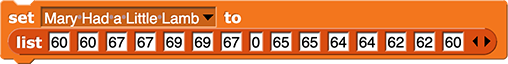
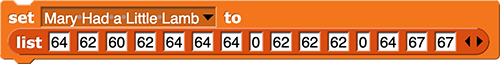
2.1 - tidying up pages 5 and 6

diff --git a/middle-school/student-pages/U2/L1/06-storing-songs.html b/middle-school/student-pages/U2/L1/06-storing-songs.html
@@ -19,13 +19,12 @@
         </div>
 		<p>
 			For example, you can use a global variable to store the pitches of a song.<br />
-			<div class="comment">This image needs to be updated because this song is Twinkle Twinkle. ;) --MF, 2/21/22</div>
-			<img class="indent" src="/bjc-r/middle-school/img/U2/lab01/set-mary-lamb.png" alt="set ('Mary Had a Little Lamb') to (list (60) (60) (67) (67) (69) (69) (67) (0) (65) (65) (64) (64) (62) (62) (60)))" title="set ('Mary Had a Little Lamb') to (list (60) (60) (67) (67) (69) (69) (67) (0) (65) (65) (64) (64) (62) (62) (60)))" /><br />
+			<img class="indent" src="/bjc-r/middle-school/img/U2/lab01/set-mary-lamb.png" alt="set ('Mary Had a Little Lamb') to (list (64) (62) (60) (62) (64) (64) (64) (0) (62) (62) (62) (0) (64) (67) (67)))" title="set ('Mary Had a Little Lamb') to (list (64) (62) (60) (62) (64) (64) (64) (0) (62) (62) (62) (0) (64) (67) (67)))" />
 			<img class="indent" src="/bjc-r/middle-school/img/U2/lab01/play-song-mary-lamb.png" alt="play song (Mary Had a Little Lamb)" title="play song (Mary Had a Little Lamb)" />
 		</p>
 		<div class="forYouToDo">
 			<ol>
-				<li>If your latest project isn't open already, log in to Snap!, and open your "Song Player" project.</li>
+				<li>If your latest project isn't open already, log in to Snap!, and open it.</li>
 				<li>
 					Create a global variable to store your song. Here's how...
 					<div class="narrower">
@@ -46,20 +45,39 @@
 							<li>In the first input slot, select the name of your global variable.</li>
 							<li>Drag the <code>list</code> block with your song pitches into the second input slot.</li>
 							<li>Click the <code>set variable</code> block to run it.</li>
-							<li>Notice that a watcher containing the pitches to your song appears on the Snap<em>!</em> stage. <div class="todo">Add a stage PNG here. --MF, 2/21/22</div></li>
+							<li>
+								Notice that a watcher containing the pitches to your song appears on the Snap<em>!</em> stage.<br />
+								<img class="indent" src="/bjc-r/middle-school/img/U2/lab01/set-mary-lamb.png" alt="set ('Mary Had a Little Lamb') to (list (64) (62) (60) (62) (64) (64) (64) (0) (62) (62) (62) (0) (64) (67) (67)))" title="set ('Mary Had a Little Lamb') to (list (64) (62) (60) (62) (64) (64) (64) (0) (62) (62) (62) (0) (64) (67) (67)))" /><br />
+							</li>
 						</ol>
 					</div>
 				</li>
 				<li>
-					Use your global variable in your <code>play song</code> block.<br />
+					Use your global variable in your <code>play song</code> block, and make sure that it works.<br />
 					<img class="indent" src="/bjc-r/middle-school/img/U2/lab01/play-song-mary-lamb.png" alt="play song (Mary Had a Little Lamb)" title="play song (Mary Had a Little Lamb)" />
 				</li>
-				<li>Create another global variable and make it store a different song.<div class="todo">Add a second image just for fun. --MF, 2/21/22</div></li>
-				<li>Try out both of your variables in your <code>play song</code> block, and make sure that they work.</li>
-				<li>Your global variables will appear as a watcher on the Snap<em>!</em> stage. You can use the <img class="inline nopadtb" src="/bjc-r/img/blocks/show-variable-full-size.png" alt="show variable" title="show variable" /> and <img class="inline nopadtb" src="/bjc-r/img/blocks/hide-variable-full-size.png" alt="hide variable" title="hide variable" /> blocks to control whether any one of your variables shows on the stage. Try showing and hiding your variables.</li>				
+				<li>
+					Create another global variable and make it store a different song.<br />
+					<img class="indent" src="/bjc-r/middle-school/img/U2/lab01/set-twinkle-twinkle.png" alt="set ('Twinkle Twinkle Little Star') to (list (60) (60) (67) (67) (69) (69) (67) (0) (65) (65) (64) (64) (62) (62) (60)))" title="set ('Twinkle Twinkle Little Star') to (list (60) (60) (67) (67) (69) (69) (67) (0) (65) (65) (64) (64) (62) (62) (60)))" />
+				</li>
+				<li>
+					Try out your second variable in your <code>play song</code> block, and check that it works too.<br />
+					<img class="indent" src="/bjc-r/middle-school/img/U2/lab01/play-song-twinkle-twinkle.png" alt="play song (Twinkle Twinkle Little Star)" title="play song (Twinkle Twinkle Little Star)" />
+				</li>
+				<li>
+					Your global variables will appear <em>watchers</em> on the Snap<em>!</em> stage. You can use the <img class="inline nopadtb" src="/bjc-r/img/blocks/show-variable-full-size.png" alt="show variable" title="show variable" /> and <img class="inline nopadtb" src="/bjc-r/img/blocks/hide-variable-full-size.png" alt="hide variable" title="hide variable" /> blocks to control whether your variables show on the stage. Try showing and hiding your song variables.<br />
+					<img class="indent noshadow" src="/bjc-r/middle-school/img/U2/lab01/song-watchers.png" alt="two watchers showing on the Snap! stage: one for 'Mary Had a Little Lamb' showing a list with the elements 64, 62, 60, ... and one for 'Twinkle Twinkle Little Star' showing a list with the elements 60, 60, 67, ..." title="two watchers showing on the Snap! stage: one for 'Mary Had a Little Lamb' showing a list with the elements 64, 62, 60, ... and one for 'Twinkle Twinkle Little Star' showing a list with the elements 60, 60, 67, ..." />
+				</li>				
 			</ol>
 		</div>
-		<div class="learn">In this activity, you stored notes in variables and used your <code>play song</code> block to play them.</div>
+		<div class="ifTime show">
+			<ol start="8">
+				<li>You can use variables to store pieces of a song and then snap several <code>play song</code> blocks together to play the same parts of a song over and over. Try building a more complicated song that way.</li>
+			</ol>
+		</div>
+		
+
+		<div class="learn">In this activity, you stored lists of pitches in variables and used your <code>play song</code> block to play them.</div>
 		
 		
 	</body>

diff --git a/middle-school/student-pages/U2/L1/05-beat-repeat.html b/middle-school/student-pages/U2/L1/05-beat-repeat.html
@@ -11,7 +11,7 @@
 
 	<body>
 		<h2>Beat Repeat</h2>
-		<div class="todo">I love this name, but I don't think it goes well with this particular page anymore. Thoughts? "Listing the Notes of a Song"? "Simplifying Your Song"? "Programming a Song More Efficiently" "Playing Each Note in a List"? I like "Playing Each Note in a List" best. Thoughts? --MF, 2/12/22</div>
+		<div class="todo">I love this name, but I don't think it goes well with this particular page anymore. Thoughts? "Listing the Notes of a Song"? "Simplifying Your Song"? "Programming a Song More Efficiently" "Playing Each Note in a List"? I like "<strong>Playing Each Note in a List</strong>" best. Thoughts? --MF, 2/12/22</div>
 		<div class="todo">
 			<ul>
 				<li><a href="https://docs.google.com/document/d/1ZGj6uApQUyQw3HByk-8tYOU-VPTwduLLbTMhW8LJrXw/edit#" title="Song Player Google Doc" target="_blank">Song Player Google Doc</a></li>
@@ -103,7 +103,7 @@
 		<div class="forYouToDo">
 			<ol start="4">
 				<li>Create a new command block called <code>play song</code> that takes a list of notes as input and plays each note in the list using <code>for each</code>.
-					<div class="todo">If we ever remake this animation, the block should be pink! --MF, 2/21/22</div>
+					<div class="todo">If we ever remake this animation, the <code>play song</code> block should be pink! --MF, 2/21/22</div>
 					<div class="endnote">
 						<p><a href="#hint-new-block" data-toggle="collapse" title="Click for a hint about creating a new command block that takes a list of notes as input and plays each note in the list using FOR EACH.">Click for a hint.</a></p>
 						<div id="hint-new-block" class="collapse">
@@ -123,6 +123,10 @@
 				</li>
 				<li>Try out your <code>play song</code> block with at least two different lists of pitches.</li>
 			</ol>
+		</div>
+		<div class="endnote">
+			<p><a href="#hint-target" data-toggle="collapse" title="Does my play song block have to play every note for the same length of time?">Does my <code>play song</code> block have to play every note for the same length of time?</a></p>
+			<div id="hint-target" class="collapse"><p>No. On a later page, you can learn a way to store and play songs with both pitch and beat information about each note.</p></div>
 		</div>
 		<div class="learn">In this activity, you used <code>for each</code> to play each pitch in a list and created a <code>play song</code> block that will work with any list of pitches.</div>
 		
